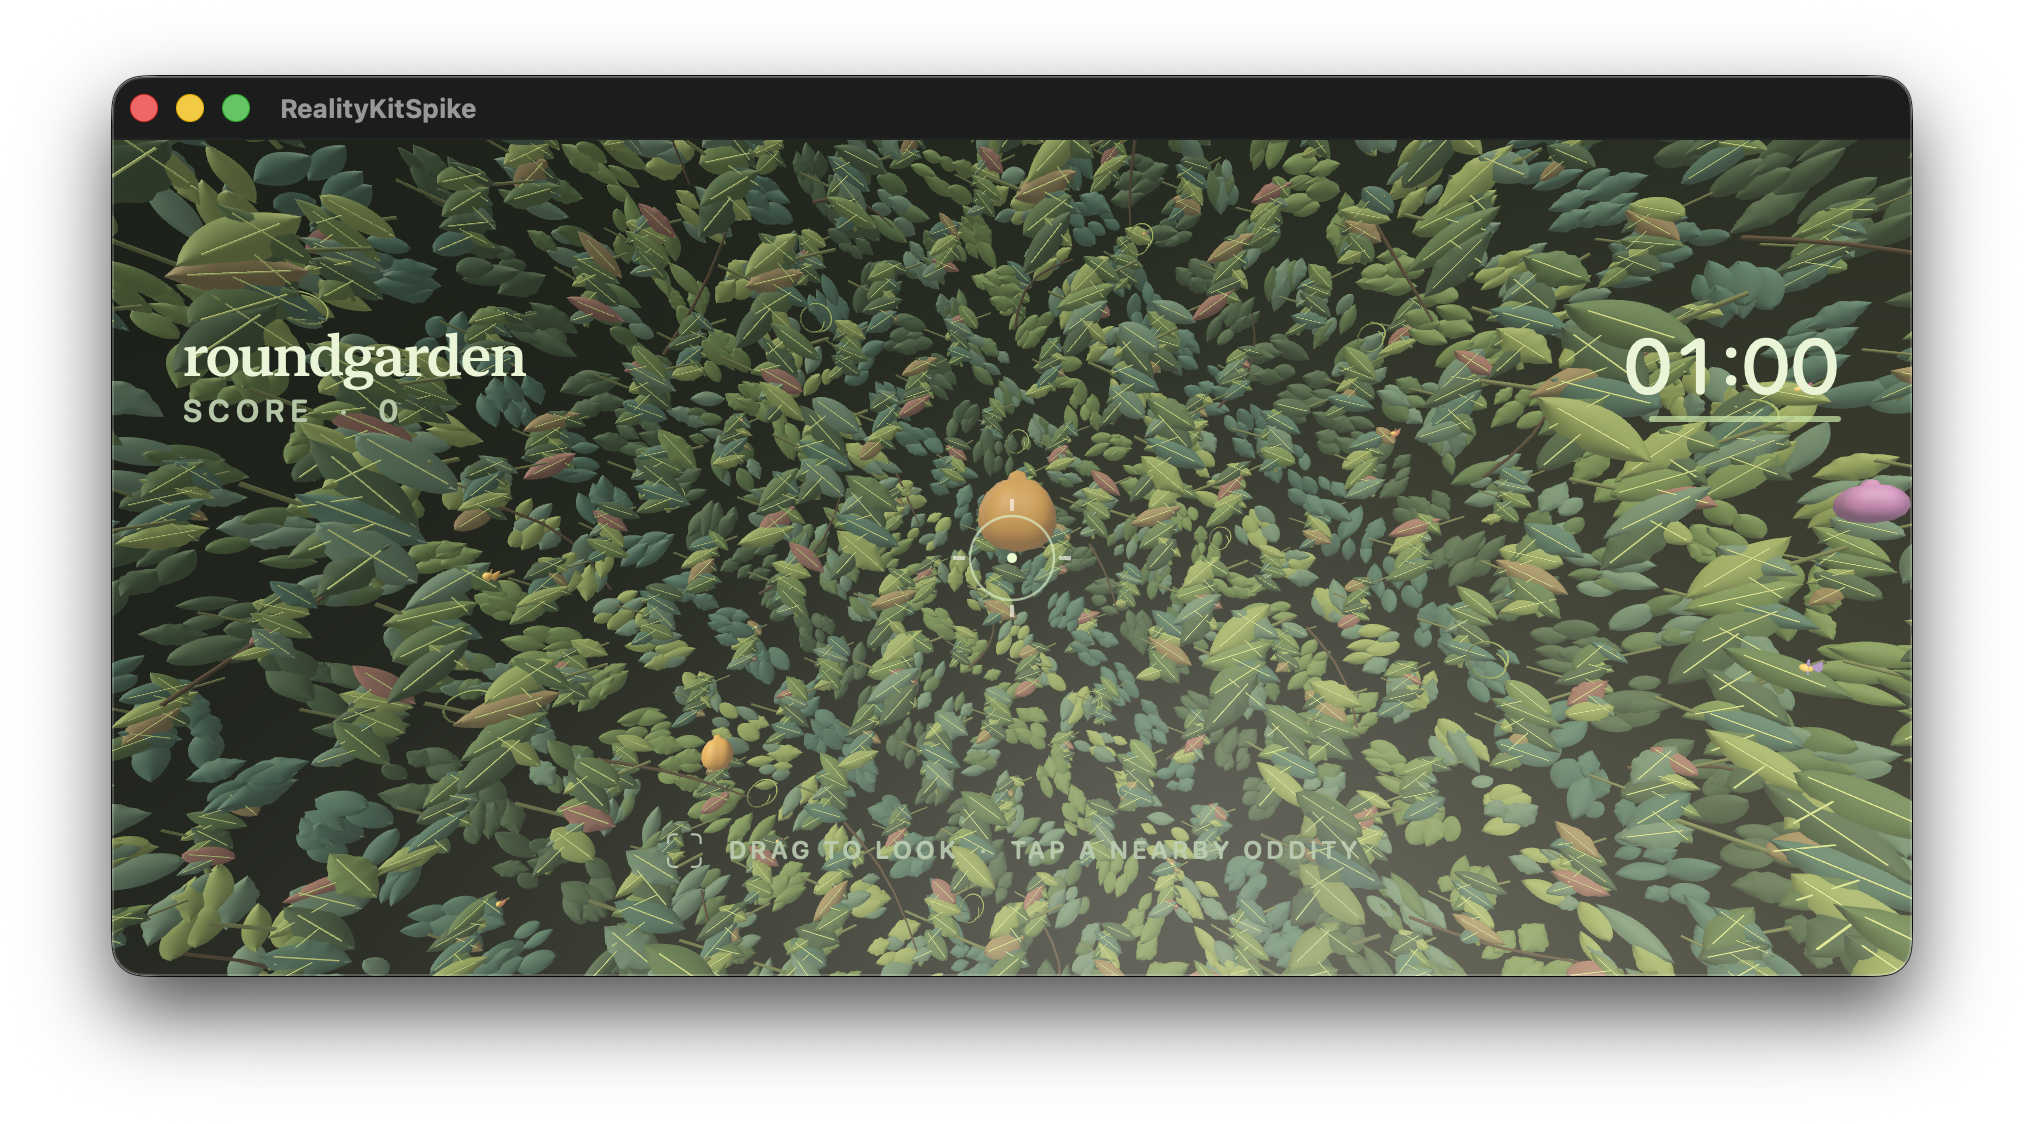
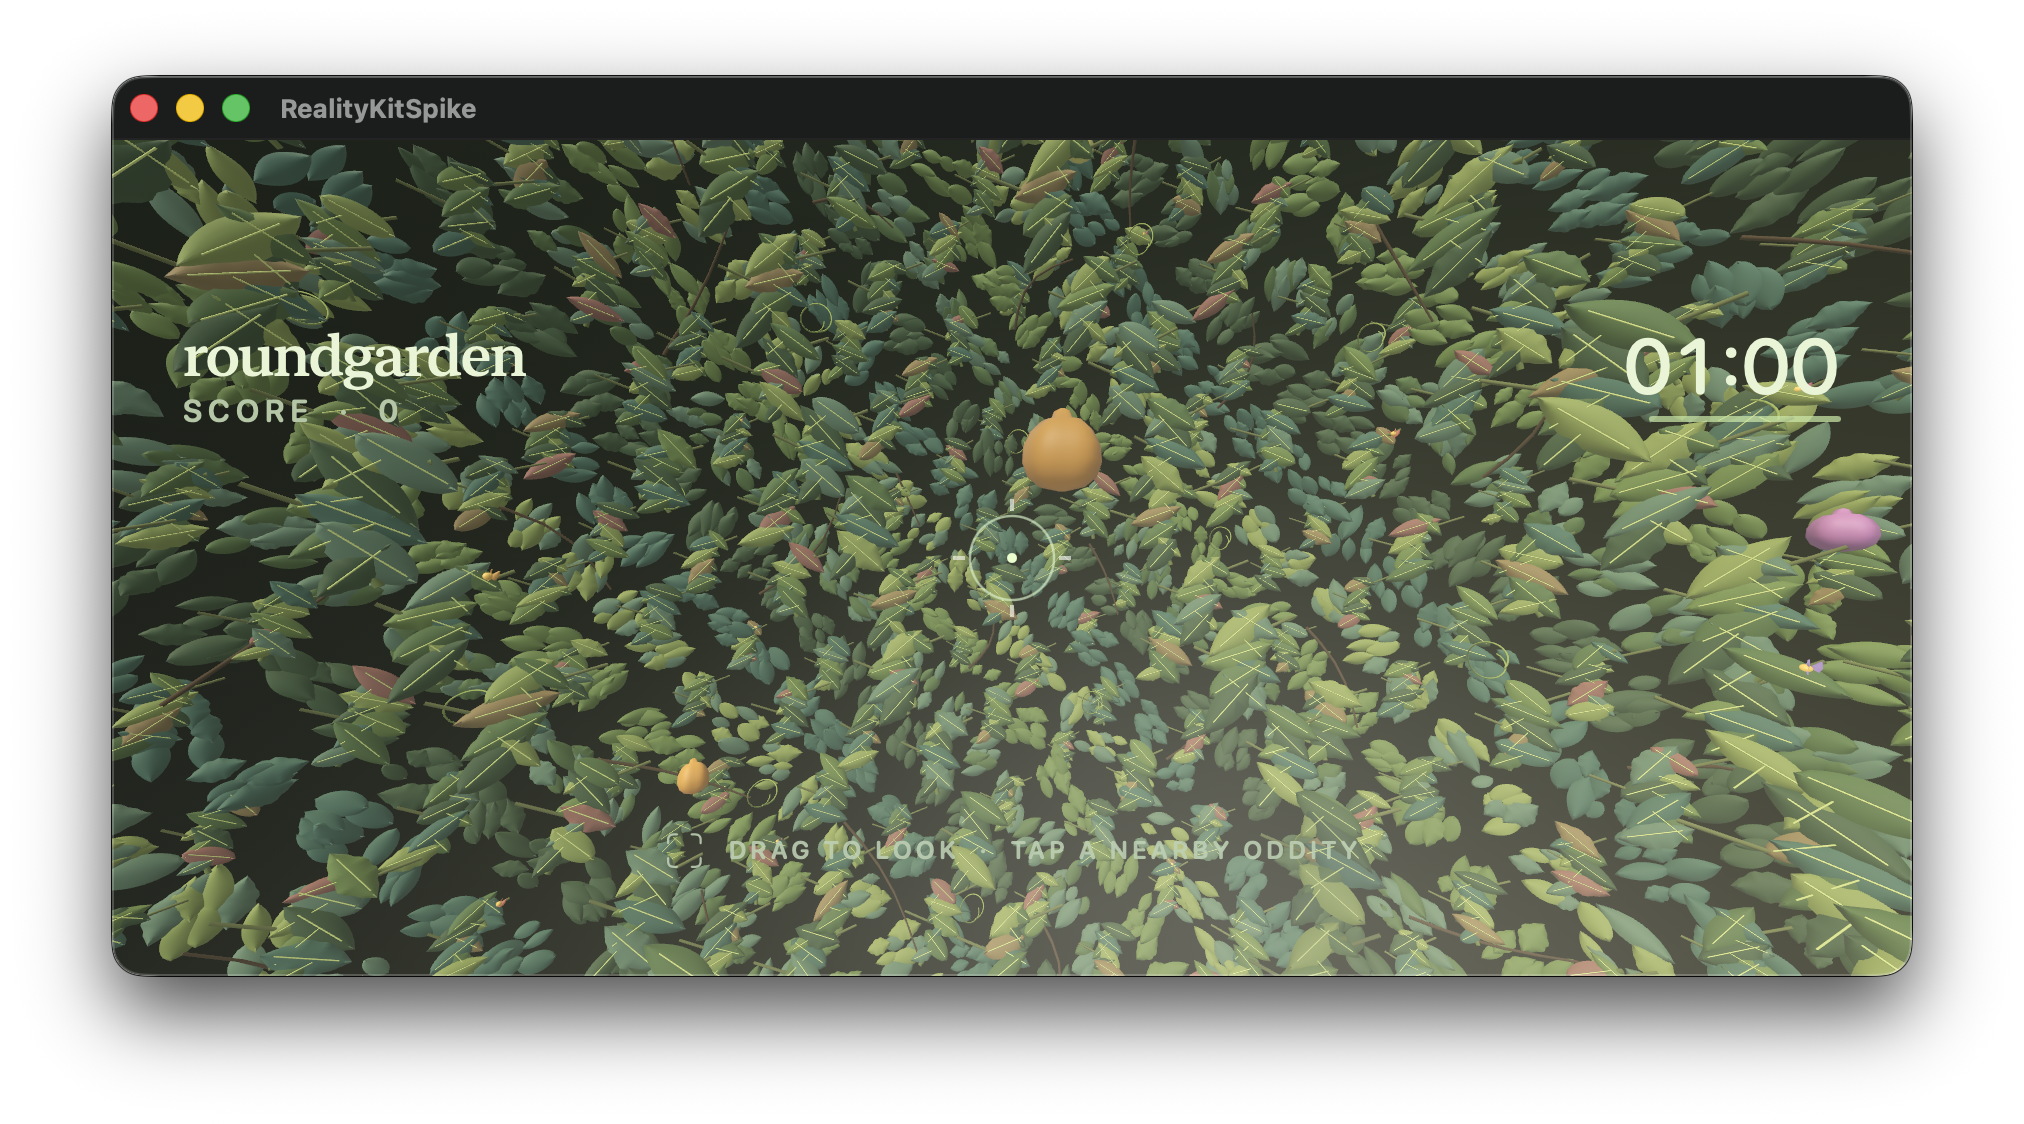
Route native pointer input over the RealityKit scene

Changed region(s): [[0.4669, 0.3737, 0.5603, 0.4982], [0.8715, 0.4048, 0.9649, 0.4982], [0.3113, 0.6539, 0.3735, 0.7162]]

diff --git a/spikes/RealityKitSpike/RealityKitSpike/SpikeView.swift b/spikes/RealityKitSpike/RealityKitSpike/SpikeView.swift
@@ -62,6 +62,10 @@ struct SpikeView: View {
           .ignoresSafeArea()
         #endif
 
+        Color.clear
+          .contentShape(Rectangle())
+          .gesture(cameraDragGesture)
+
         VStack {
           HStack(alignment: .top) {
             VStack(alignment: .leading, spacing: 1) {
@@ -124,26 +128,27 @@ struct SpikeView: View {
           #endif
       )
       .preferredColorScheme(.dark)
-      .gesture(
-        DragGesture(minimumDistance: 0)
-          .onChanged { value in
-            let delta = CGSize(
-              width: value.translation.width - lastDragTranslation.width,
-              height: value.translation.height - lastDragTranslation.height
-            )
-            lastDragTranslation = value.translation
-            yaw -= delta.width * 0.004
-            pitch = min(0.94, max(-0.94, pitch - delta.height * 0.004))
-          }
-          .onEnded { value in
-            if hypot(value.translation.width, value.translation.height) < 8 { score += 1 }
-            lastDragTranslation = .zero
-          }
-      )
     }
     #if os(iOS)
       .ignoresSafeArea()
     #endif
+  }
+
+  private var cameraDragGesture: some Gesture {
+    DragGesture(minimumDistance: 0)
+      .onChanged { value in
+        let delta = CGSize(
+          width: value.translation.width - lastDragTranslation.width,
+          height: value.translation.height - lastDragTranslation.height
+        )
+        lastDragTranslation = value.translation
+        yaw -= delta.width * 0.004
+        pitch = min(0.94, max(-0.94, pitch - delta.height * 0.004))
+      }
+      .onEnded { value in
+        if hypot(value.translation.width, value.translation.height) < 8 { score += 1 }
+        lastDragTranslation = .zero
+      }
   }
 
   private func makeGarden() -> Entity {

diff --git a/docs/decisions/0002-realitykit-spike.md b/docs/decisions/0002-realitykit-spike.md
@@ -23,7 +23,7 @@ The current prototype animates multiple produce entities and uses curved leaf me
 - Native and web GitHub Actions builds passed for the merged visual follow-up (PR #6).
 - The earlier capture had more layered color and a readable near-field pod, but the iPhone viewport was cropped. The 2026-10-30 visual pass replaced repeated leaf silhouettes with three foliage shapes, weighted the palette toward green, added a continuous dark backdrop, and fixed full-display composition on iPhone and iPad; the macOS window was also reviewed.
 - On 2026-10-30, local `xcodebuild` builds passed for `RealityKitSpike_iOS` on the iPhone 17 Pro simulator destination and `RealityKitSpike_macOS` with a generic macOS destination. The iOS app launched on the iPhone 17 Pro simulator running iOS 26.5 and rendered the scene.
-- Generated launch-screen metadata and iOS-only safe-area filling resolved the iPhone's black bands while keeping the Mac HUD below the title bar. Fresh iPhone, iPad, and Mac captures are saved under `spikes/RealityKitSpike/screenshots/`. A still image does not verify drag/tap response, produce motion over time, transparency, shadows, or target-device performance. No physical-device frame-time or memory measurements were collected.
+- Generated launch-screen metadata and iOS-only safe-area filling resolved the iPhone's black bands while keeping the Mac HUD below the title bar. Fresh iPhone, iPad, and Mac captures are saved under `spikes/RealityKitSpike/screenshots/`. A live Mac run confirmed mouse drag rotates the garden, produce continues moving, and click updates the temporary counter. iPhone/iPad touch input, accurate target selection, transparency/shadow quality, and target-device performance remain unverified. No physical-device frame-time or memory measurements were collected.
 - Native CI now lints Swift with `xcrun swift-format` and builds both iOS Simulator and macOS targets. Local instructions document format and build commands and note that physical-device installation requires an Apple development team and provisioning profile.
 
 ## Decision

diff --git a/spikes/RealityKitSpike/README.md b/spikes/RealityKitSpike/README.md
@@ -35,7 +35,7 @@ The native workflow builds both targets with code signing disabled. Simulator an
 - The iPhone 17 Pro simulator launched the app and rendered the garden, HUD, reticle, and produce across the full display. Adding generated launch-screen metadata removed the legacy 2:3 iPhone viewport; the iPad Pro 11-inch simulator (iOS 27.0) also fills its display.
 - The native scene now uses three leaf silhouettes, a green-weighted foliage palette, a continuous dark garden backdrop, and width-scaled HUD/reticle sizing. Safe-area extension is iOS-only so the Mac HUD remains below its title bar.
 - The local macOS app was launched and reviewed in a resizable window. Current captures: [iPhone 17 Pro](screenshots/iphone-17-pro.png), [iPad Pro 11-inch](screenshots/ipad-pro-11-inch.png), and [Mac window](screenshots/macos-window.png).
-- Still captures do not verify camera response, produce approach/scale over time, shadow quality, or transparency behavior. The spike has no target picking yet, so occlusion-safe selection is not established.
+- A live Mac run confirmed that mouse drag rotates the garden, produce continues moving, and click updates the temporary score counter. iPhone/iPad touch interaction, approach/scale behavior across an orbit, shadow/transparency fidelity, and occlusion-safe selection still need validation. The spike has no target picking yet.
 - No frame-time or memory measurements were collected on physical target hardware. Simulator builds and launch do not satisfy the device-performance check.
 
 **Result:** the composition and foliage-fidelity pass is implemented and reviewed across iPhone, iPad, and Mac windows. Native CI now includes Swift formatting and iOS/macOS builds. The first Phase 2 validation checklist item remains open until platform input, motion, lighting, transparency, occlusion, and physical-device performance are measured.
